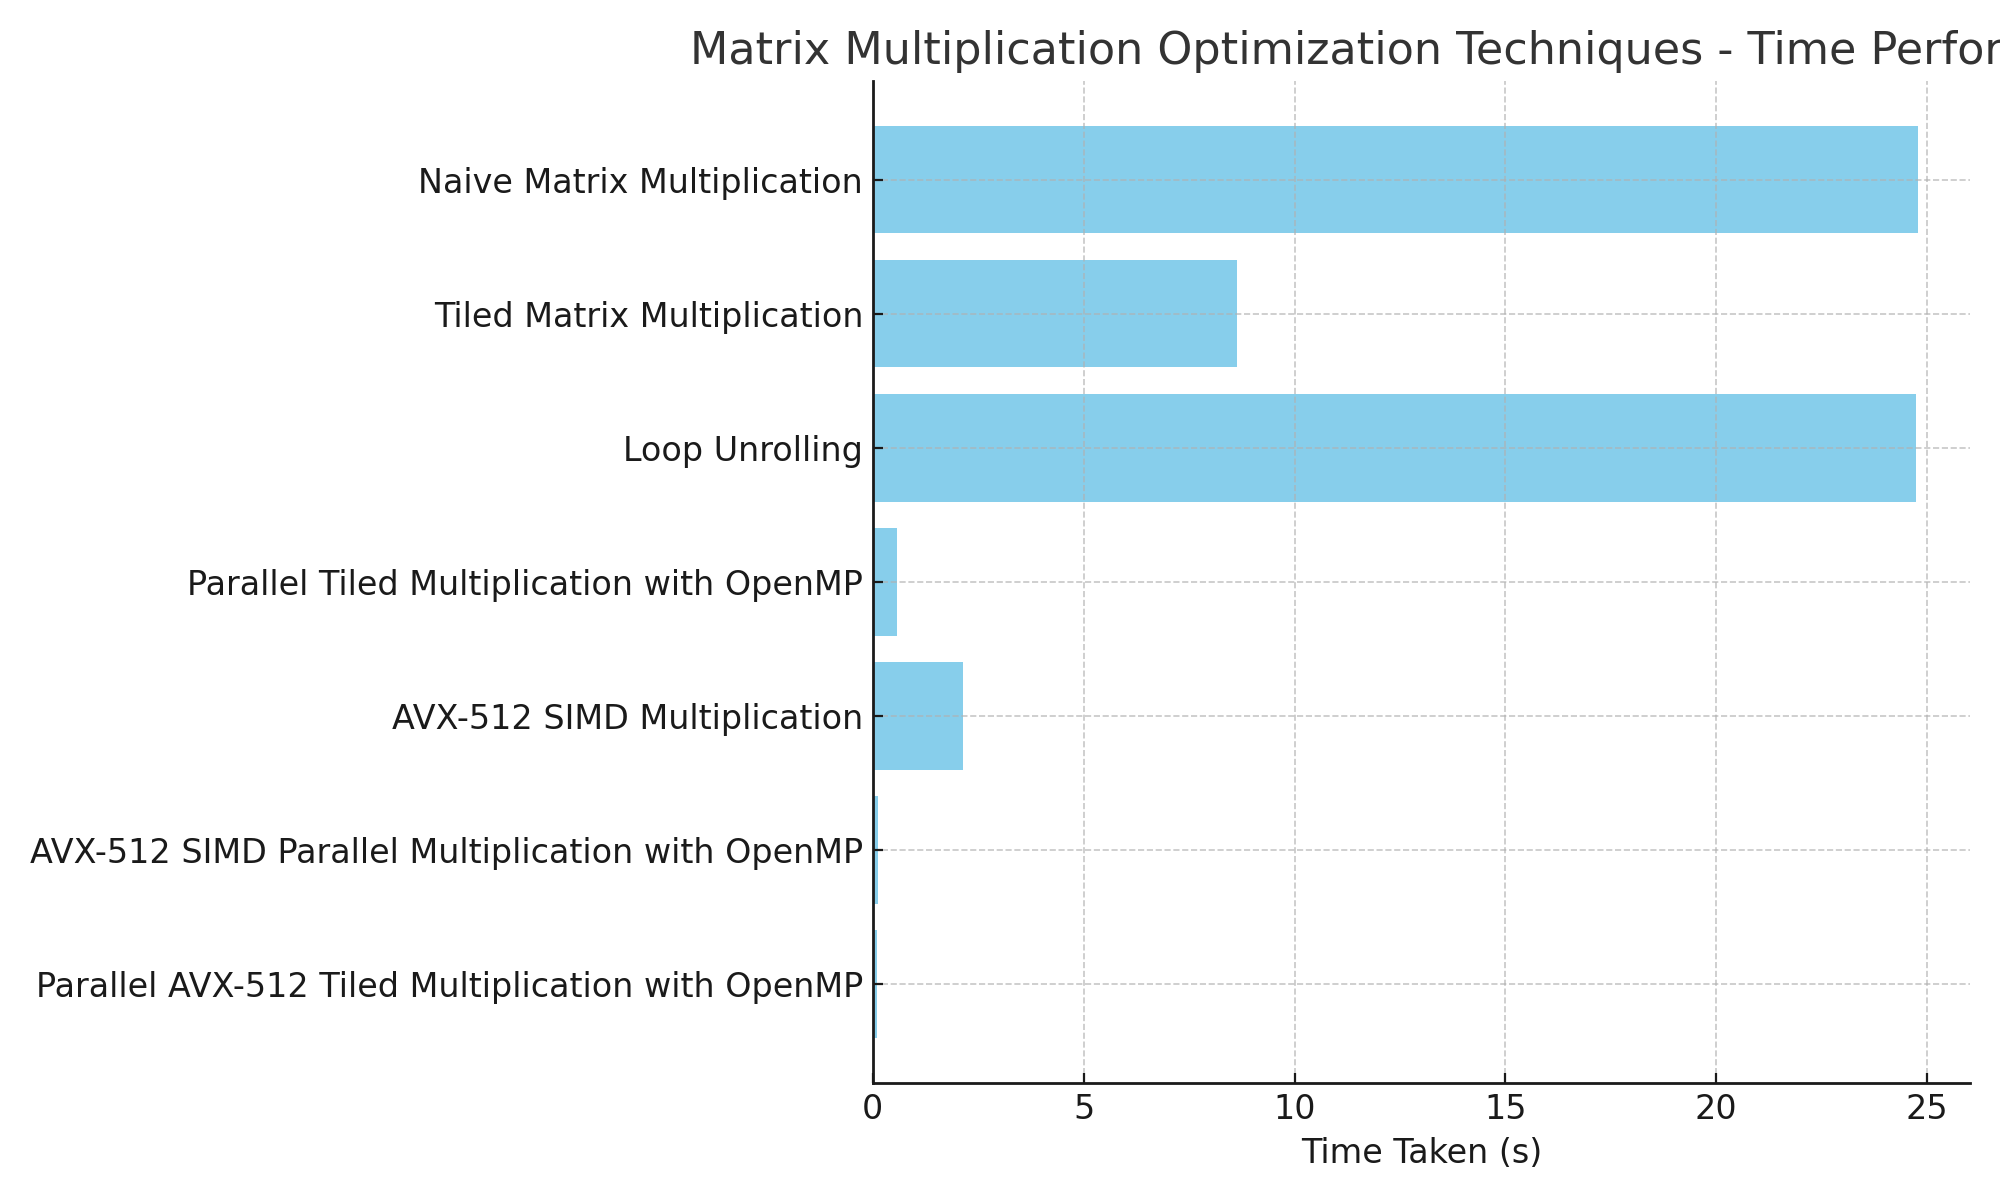
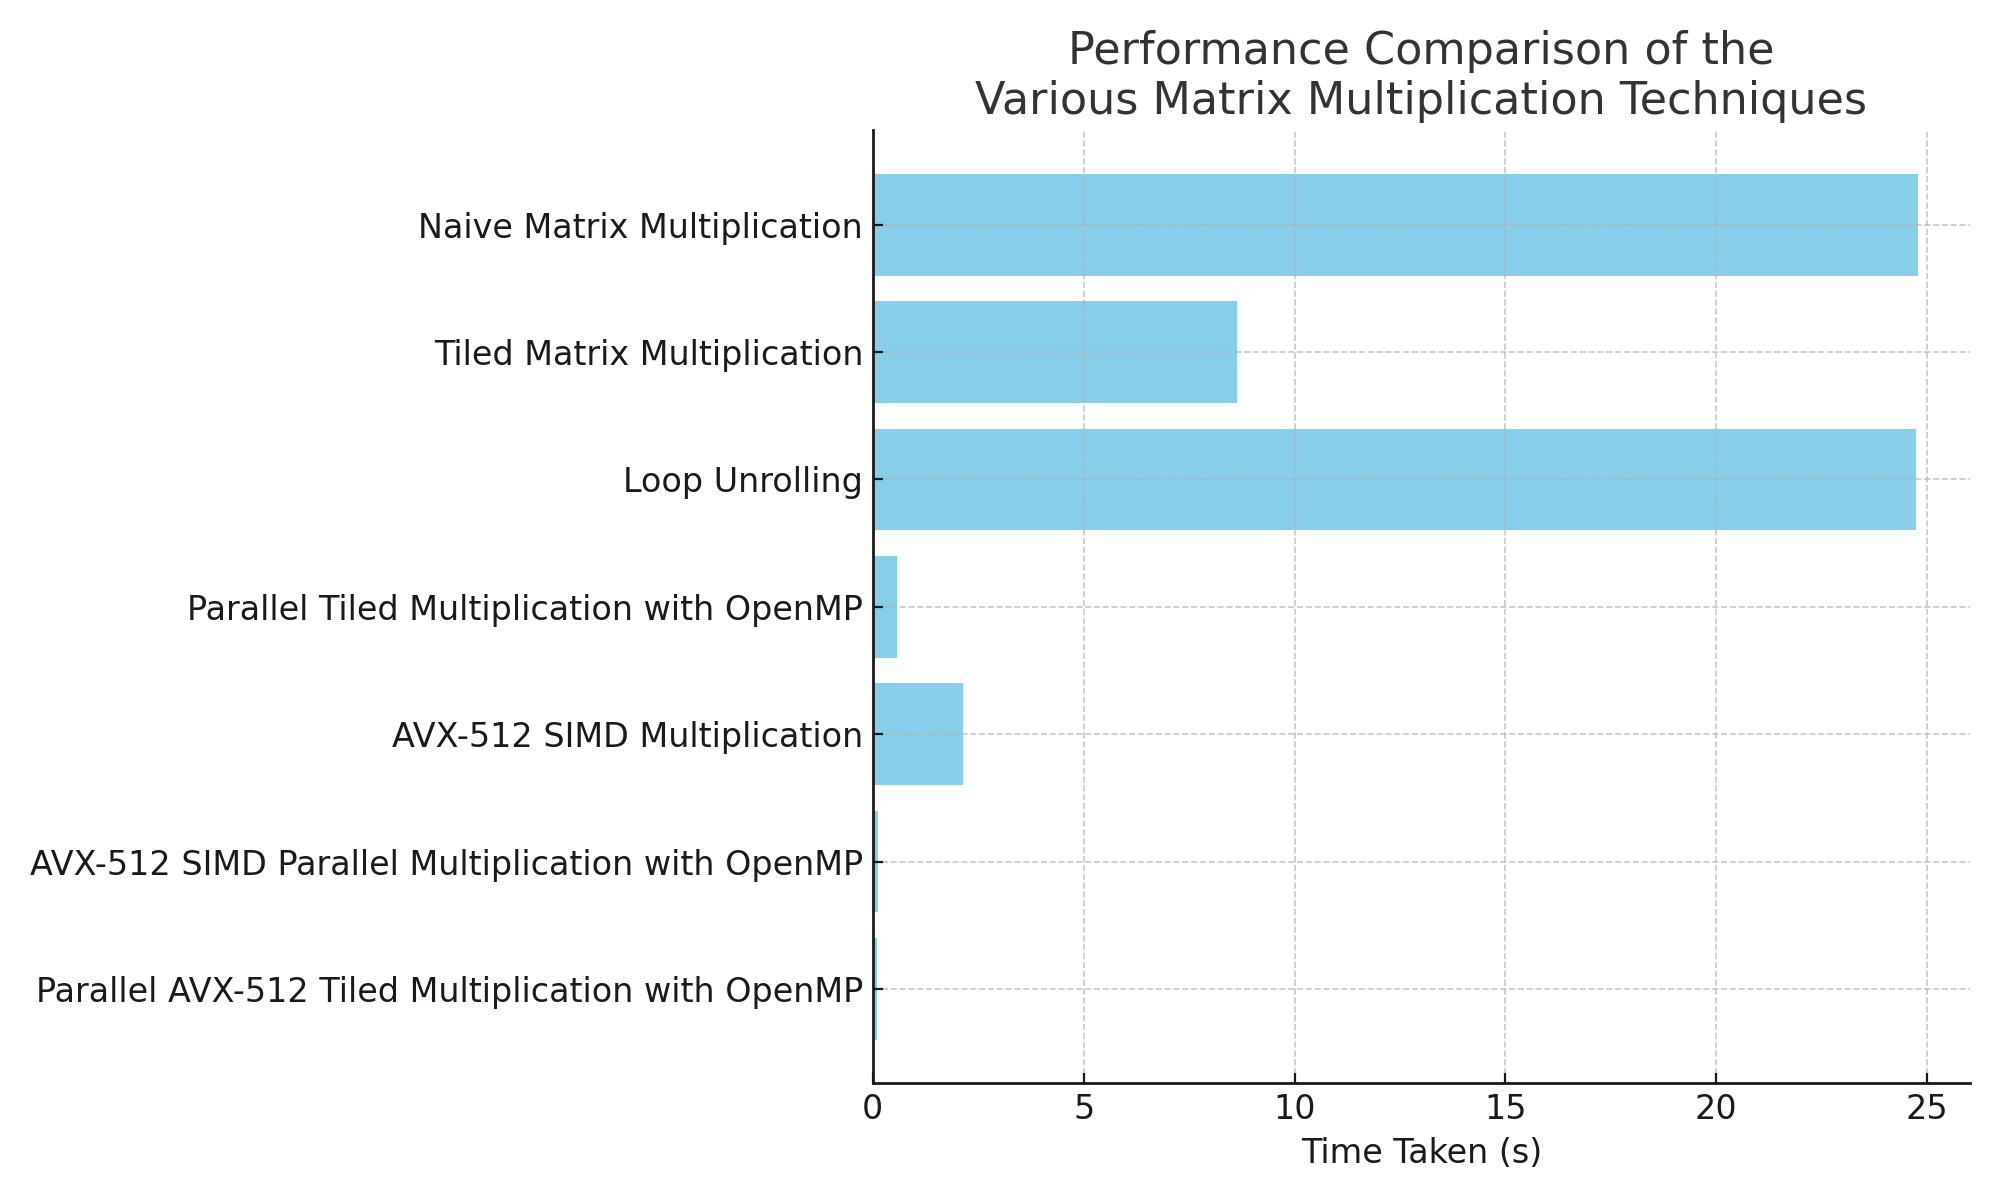
Updated blog

diff --git a/blogs/mat_mul_gpu.html b/blogs/mat_mul_gpu.html
@@ -1,0 +1,134 @@
+<!DOCTYPE html>
+<html lang="en">
+<head>
+    <meta charset="UTF-8">
+    <meta name="viewport" content="width=device-width, initial-scale=1.0">
+    <title>Matrix Multiplication Performance on A100 GPU with 8192x8192 Matrix</title>
+    <style>
+        body { font-family: Arial, sans-serif; line-height: 1.6; margin: 0 auto; max-width: 800px; padding: 20px; }
+        h1 { color: #333; }
+        h2 { color: #555; }
+        p, pre { color: #666; }
+        .code { background-color: #f4f4f4; padding: 10px; border-left: 3px solid #333; }
+        .plot { text-align: center; margin-top: 20px; }
+    </style>
+</head>
+<body>
+
+    <h1>Matrix Multiplication Performance on A100 GPU with 8192x8192 Matrix</h1>
+    
+    <p>In this post, we evaluate the performance of different matrix multiplication techniques on an NVIDIA A100 GPU using an 8192x8192 matrix. With the powerful Tensor Cores available on the A100, we explore how various implementations, including WMMA (Warp Matrix Multiply and Accumulate) for Tensor Core acceleration, handle this computationally intensive task.</p>
+    
+    <h2>Implementations</h2>
+    
+    <p>To better understand GPU optimization techniques, we implemented four matrix multiplication methods:</p>
+    
+    <h3>1. Naive GPU MatMul</h3>
+    <p>The naive implementation computes each element of the result matrix independently in each thread. This straightforward approach has no optimizations, so it requires multiple global memory accesses, resulting in longer runtime for large matrices.</p>
+    <div class="code">
+        <pre>
+// Naive GPU Matrix Multiplication
+__global__ void matMulNaive(const int* A, const int* B, int* C, int n) {
+    int row = blockIdx.y * blockDim.y + threadIdx.y;
+    int col = blockIdx.x * blockDim.x + threadIdx.x;
+    if (row < n && col < n) {
+        int sum = 0;
+        for (int k = 0; k < n; k++) {
+            sum += A[row * n + k] * B[k * n + col];
+        }
+        C[row * n + col] = sum;
+    }
+}
+        </pre>
+    </div>
+    
+    <h3>2. Shared Memory GPU MatMul</h3>
+    <p>In this approach, shared memory is used to store small submatrices of A and B, reducing global memory accesses and improving performance. By using shared memory, we achieve faster data access within each block.</p>
+    <div class="code">
+        <pre>
+// Shared Memory GPU Matrix Multiplication
+__global__ void matMulSharedMemory(const int* A, const int* B, int* C, int n) {
+    __shared__ int As[16][16];
+    __shared__ int Bs[16][16];
+    int row = blockIdx.y * 16 + threadIdx.y;
+    int col = blockIdx.x * 16 + threadIdx.x;
+    int sum = 0;
+    for (int i = 0; i < n / 16; i++) {
+        As[threadIdx.y][threadIdx.x] = A[row * n + i * 16 + threadIdx.x];
+        Bs[threadIdx.y][threadIdx.x] = B[(i * 16 + threadIdx.y) * n + col];
+        __syncthreads();
+        for (int k = 0; k < 16; k++) {
+            sum += As[threadIdx.y][k] * Bs[k][threadIdx.x];
+        }
+        __syncthreads();
+    }
+    C[row * n + col] = sum;
+}
+        </pre>
+    </div>
+    
+    <h3>3. Loop Unrolled GPU MatMul</h3>
+    <p>Loop unrolling further optimizes the shared memory implementation by reducing loop overhead, making this approach faster. This technique is particularly effective for smaller matrix sizes, where loop overhead is a significant factor.</p>
+    <div class="code">
+        <pre>
+// Loop Unrolled GPU Matrix Multiplication
+__global__ void matMulLoopUnroll(const int* A, const int* B, int* C, int n) {
+    __shared__ int As[16][16];
+    __shared__ int Bs[16][16];
+    int row = blockIdx.y * 16 + threadIdx.y;
+    int col = blockIdx.x * 16 + threadIdx.x;
+    int sum = 0;
+    for (int i = 0; i < n / 16; i++) {
+        As[threadIdx.y][threadIdx.x] = A[row * n + i * 16 + threadIdx.x];
+        Bs[threadIdx.y][threadIdx.x] = B[(i * 16 + threadIdx.y) * n + col];
+        __syncthreads();
+        #pragma unroll
+        for (int k = 0; k < 16; k++) {
+            sum += As[threadIdx.y][k] * Bs[k][threadIdx.x];
+        }
+        __syncthreads();
+    }
+    C[row * n + col] = sum;
+}
+        </pre>
+    </div>
+    
+    <h3>4. WMMA Tensor Core GPU MatMul</h3>
+    <p>The WMMA (Warp Matrix Multiply and Accumulate) API allows us to use Tensor Cores on the A100 for matrix multiplication. Tensor Cores are specialized hardware units optimized for 16x16 matrix operations in mixed precision (FP16 inputs with FP32 accumulation). However, due to tile size constraints and the large matrix size (8192x8192), this approach may not always outperform shared memory-based techniques.</p>
+    <div class="code">
+        <pre>
+// Tensor Core Matrix Multiplication using WMMA
+__global__ void matMulTensorCoreWMMA(const __half* A, const __half* B, float* C, int n) {
+    const int TILE_SIZE = 16;
+    int warpM = (blockIdx.y * blockDim.y + threadIdx.y) / TILE_SIZE;
+    int warpN = (blockIdx.x * blockDim.x + threadIdx.x) / TILE_SIZE;
+    fragment<matrix_a, TILE_SIZE, TILE_SIZE, TILE_SIZE, __half, row_major> a_frag;
+    fragment<matrix_b, TILE_SIZE, TILE_SIZE, TILE_SIZE, __half, col_major> b_frag;
+    fragment<accumulator, TILE_SIZE, TILE_SIZE, TILE_SIZE, float> c_frag;
+    fill_fragment(c_frag, 0.0f);
+    for (int i = 0; i < n / TILE_SIZE; i++) {
+        load_matrix_sync(a_frag, A + warpM * TILE_SIZE * n + i * TILE_SIZE, n);
+        load_matrix_sync(b_frag, B + i * TILE_SIZE * n + warpN * TILE_SIZE, n);
+        mma_sync(c_frag, a_frag, b_frag, c_frag);
+    }
+    store_matrix_sync(C + warpM * TILE_SIZE * n + warpN * TILE_SIZE, c_frag, n, mem_row_major);
+}
+        </pre>
+    </div>
+    
+    <h2>Results</h2>
+    
+    <h2>Performance Comparison Plot</h2>
+    
+    <p>The following plot summarizes the performance results, illustrating the differences in elapsed times for each method.</p>
+    
+    <div class="plot">
+        <img src="matrix_multiplication_performance_gpu.png" alt="Matrix Multiplication Performance on A100 GPU" width="600">
+    </div>
+    
+    <h2>Analysis</h2>
+    
+    <p>The results indicate that shared memory and loop unrolling offer the best performance for large matrix sizes. While Tensor Cores are highly effective for small or batched matrix operations typical in deep learning, they were less beneficial here due to the overhead associated with managing small tiles for a large 8192x8192 matrix.</p>
+    
+</body>
+</html>

diff --git a/blogs/index.html b/blogs/index.html
@@ -23,6 +23,10 @@
         <a href="mat_mul_cpu.html">1) Optimization Techniques for Matrix Multiplication on CPUs</a>
         <p>A deep dive into various optimization techniques for matrix multiplication, including tiling, loop unrolling, parallelization, and AVX-512 SIMD on modern CPUs.</p>
     </li>
+    <li>
+        <a href="mat_mul_gpu.html">2) Optimization Techniques for Matrix Multiplication on GPUs</a>
+        <p>A Deep Dive into Matrix Multiplication on A100 GPUs: Exploring Naive, Shared Memory, and WMMA Tensor Core Approaches.</p>
+    </li>
 </ul>
 
 </body>
